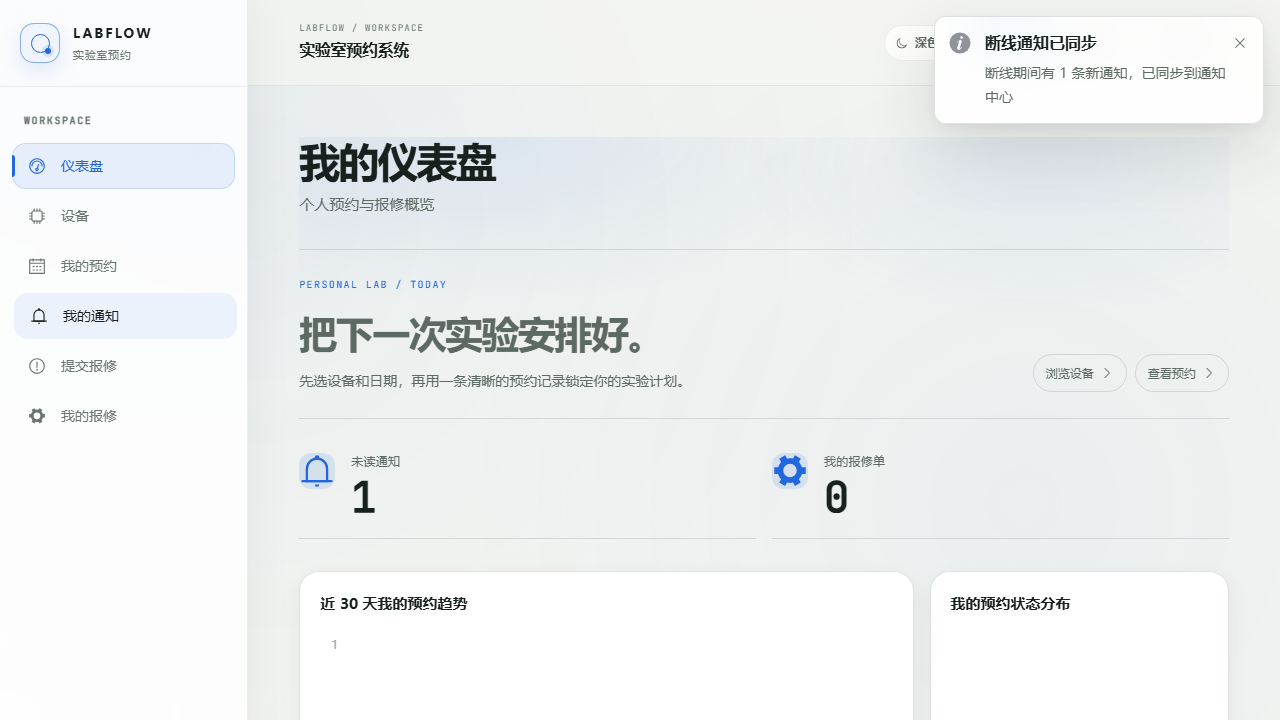
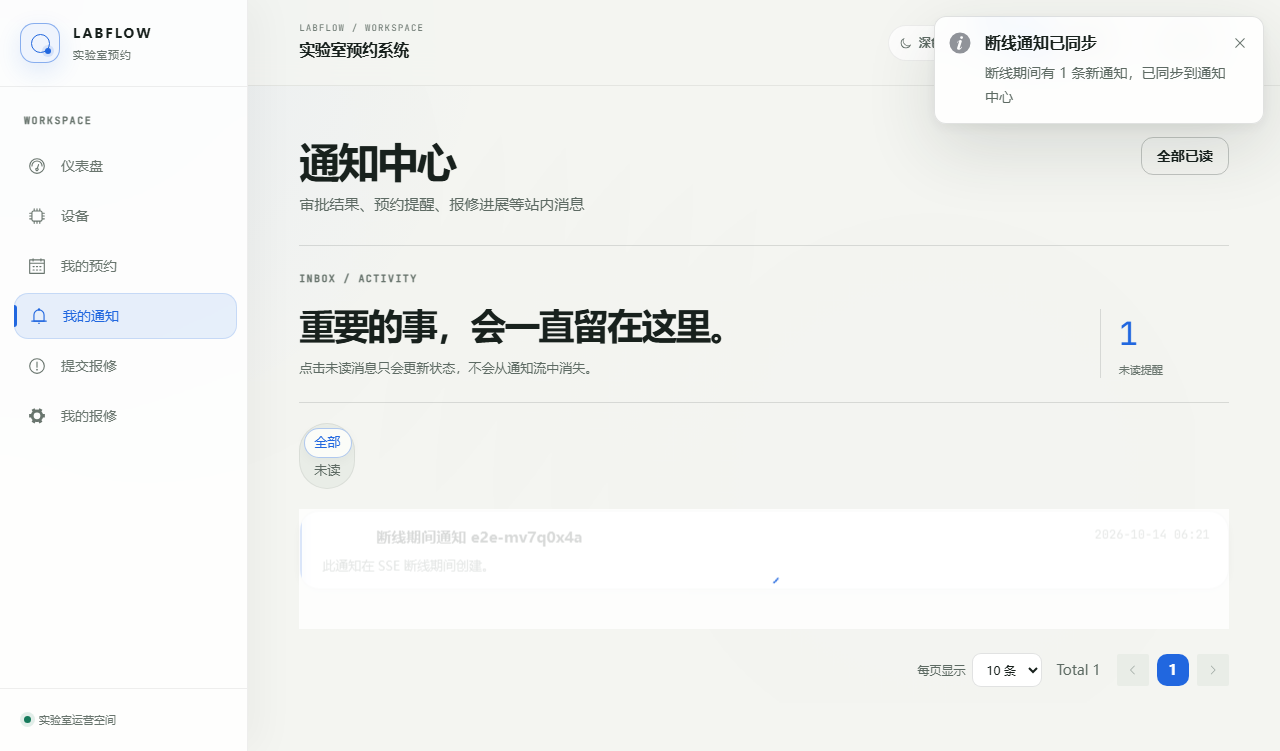
test: capture verified final frames for notification and multi-tab flows

diff --git a/.artifacts/browser-flow-20261014/viewer/gallery.html b/.artifacts/browser-flow-20261014/viewer/gallery.html
@@ -1,8 +1,8 @@
 <!doctype html><html lang="zh-CN"><meta charset="utf-8"><meta name="viewport" content="width=device-width,initial-scale=1"><title>前端流程截图册 · 2026-10-14</title>
 <style>body{margin:0;background:#f7f7f5;color:#222;font:16px/1.65 system-ui,sans-serif}header,main{max-width:1280px;margin:auto;padding:32px}h1{font-size:38px;margin:0 0 12px}p{color:#555}input,select,button{font:inherit;border:1px solid #ccc;border-radius:8px;padding:10px;background:white;color:#222}nav{display:flex;gap:12px;flex-wrap:wrap}input{flex:1;min-width:240px}.grid{display:grid;grid-template-columns:repeat(auto-fill,minmax(260px,1fr));gap:20px}article{background:white;border-radius:12px;padding:14px}article button{padding:0;border:0;width:100%;cursor:zoom-in}article img{display:block;width:100%;height:190px;object-fit:contain;background:#eee}article h2{font-size:15px;margin:10px 0}small{color:#555}.badge{color:#17663d}dialog{border:0;border-radius:12px;padding:18px;width:92vw;max-width:1500px;height:90vh}dialog::backdrop{background:#000b}.controls{display:flex;gap:10px;align-items:center;flex-wrap:wrap}.detail{height:calc(100% - 75px);overflow:auto;text-align:center}.detail img{max-width:100%;height:auto}#caption{flex:1}a{color:#1462c2}</style>
-<header><h1>前端流程截图册</h1><div class="badge">2026-10-14 · 14 条流程通过 · 24 张新截图</div><p>真实 Vue 页面、Java Spring Boot、MySQL 与 Redis；使用隔离测试学院和数据库，上传图片为测试占位附件。覆盖预约审批、交接与归还验收、报修、角色权限、学院隔离、并发预约和通知。旧处罚申诉、逾期和维护校准流程已移除。</p><nav><input id="search" placeholder="搜索流程或操作步骤" aria-label="搜索截图"><select id="group" aria-label="选择流程"><option value="">全部流程</option></select></nav><p id="count"></p></header><main><div class="grid" id="grid"></div></main>
+<header><h1>前端流程截图册</h1><div class="badge">2026-10-14 · 14 条流程通过 · 24 张关键截图</div><p>真实 Vue 页面、Java Spring Boot、MySQL 与 Redis；使用隔离测试学院和数据库，上传图片为测试占位附件。覆盖预约审批、交接与归还验收、报修、角色权限、学院隔离、并发预约和通知。旧处罚申诉、逾期和维护校准流程已移除。</p><nav><input id="search" placeholder="搜索流程或操作步骤" aria-label="搜索截图"><select id="group" aria-label="选择流程"><option value="">全部流程</option></select></nav><p id="count"></p></header><main><div class="grid" id="grid"></div></main>
 <dialog id="viewer"><div class="controls"><button id="prev">上一张 ←</button><button id="next">下一张 →</button><span id="caption"></span><a id="original" target="_blank">原图</a><button id="close">关闭 Esc</button></div><div class="detail"><img id="large" alt="流程截图"></div></dialog>
-<script type="application/json" id="data">{"date":"2026-10-14","groups":[{"title":"管理员菜单页面正常显示，设备、用户和实验室 CRUD 可闭环","count":2},{"title":"不可预约日期会阻止用户提交，解除后恢复预约；同步与异步报表可下载","count":2},{"title":"两个标签页并发提交时使用共享令牌并成功通过 CSRF 校验","count":1},{"title":"交接发现配件损坏会阻止启用、生成报修并等待负责人处置","count":1},{"title":"报修被退回后可重新处理，管理员驳回分支也可闭环","count":2},{"title":"损坏归还验收会完成预约并将设备转入维护状态","count":2},{"title":"管理员可驳回待受理报修，用户端可查看驳回状态","count":2},{"title":"预约审批、报修处理和菜单隔离均通过页面完成","count":2},{"title":"驳回、取消与候补递补都能通过实际页面闭环","count":2},{"title":"两个用户并发预约同一设备，管理员审批唯一成功申请","count":2},{"title":"HTTP 连接中断后同一 EventSource 按 Last-Event-ID 补发通知","count":1},{"title":"一个标签页标记已读后同步更新同账号的另一个标签页","count":1},{"title":"非 AI 菜单页面、预约与报修协作链路及预期错误状态均截图验证","count":2},{"title":"跨学院设备、预约和审批不可见；本学院负责人及系统管理员范围正确","count":2}],"frames":[{"index":1,"group":"管理员菜单页面正常显示，设备、用户和实验室 CRUD 可闭环","action":"结果核对 · admin-dashboard","url":"","file":"images/0001.png"},{"index":2,"group":"管理员菜单页面正常显示，设备、用户和实验室 CRUD 可闭环","action":"结果核对 · organization-lab-management","url":"","file":"images/0002.png"},{"index":3,"group":"不可预约日期会阻止用户提交，解除后恢复预约；同步与异步报表可下载","action":"结果核对 · operations-reports","url":"","file":"images/0003.png"},{"index":4,"group":"不可预约日期会阻止用户提交，解除后恢复预约；同步与异步报表可下载","action":"结果核对 · reservation-rules-released-user","url":"","file":"images/0004.png"},{"index":5,"group":"两个标签页并发提交时使用共享令牌并成功通过 CSRF 校验","action":"打开页面","url":"/dashboard","file":"images/0005.png"},{"index":6,"group":"交接发现配件损坏会阻止启用、生成报修并等待负责人处置","action":"结果核对 · handover-damage-repair-workorder","url":"","file":"images/0006.png"},{"index":7,"group":"报修被退回后可重新处理，管理员驳回分支也可闭环","action":"点击 · 提交报修","url":"/repairs/mine","file":"images/0007.png"},{"index":8,"group":"报修被退回后可重新处理，管理员驳回分支也可闭环","action":"点击 · 确认处理","url":"/repairs","file":"images/0008.png"},{"index":9,"group":"损坏归还验收会完成预约并将设备转入维护状态","action":"结果核对 · damaged-device-maintenance-admin","url":"","file":"images/0009.png"},{"index":10,"group":"损坏归还验收会完成预约并将设备转入维护状态","action":"结果核对 · damaged-return-completed-user","url":"","file":"images/0010.png"},{"index":11,"group":"管理员可驳回待受理报修，用户端可查看驳回状态","action":"结果核对 · repair-rejected-admin","url":"","file":"images/0011.png"},{"index":12,"group":"管理员可驳回待受理报修，用户端可查看驳回状态","action":"结果核对 · repair-rejected-user","url":"","file":"images/0012.png"},{"index":13,"group":"预约审批、报修处理和菜单隔离均通过页面完成","action":"结果核对 · handover-queue-completed-admin","url":"","file":"images/0013.png"},{"index":14,"group":"预约审批、报修处理和菜单隔离均通过页面完成","action":"结果核对 · reservation-completed-user","url":"","file":"images/0014.png"},{"index":15,"group":"驳回、取消与候补递补都能通过实际页面闭环","action":"结果核对 · reservation-rejected-and-cancelled-user","url":"","file":"images/0015.png"},{"index":16,"group":"驳回、取消与候补递补都能通过实际页面闭环","action":"结果核对 · waitlist-notified-user","url":"","file":"images/0016.png"},{"index":17,"group":"两个用户并发预约同一设备，管理员审批唯一成功申请","action":"结果核对 · 01-user-one-ready-to-submit","url":"","file":"images/0017.png"},{"index":18,"group":"两个用户并发预约同一设备，管理员审批唯一成功申请","action":"结果核对 · 07-admin-approval-complete","url":"","file":"images/0018.png"},{"index":19,"group":"HTTP 连接中断后同一 EventSource 按 Last-Event-ID 补发通知","action":"点击 · 我的通知","url":"/notifications","file":"images/0019.png"},{"index":20,"group":"一个标签页标记已读后同步更新同账号的另一个标签页","action":"点击控件","url":"/notifications","file":"images/0020.png"},{"index":21,"group":"非 AI 菜单页面、预约与报修协作链路及预期错误状态均截图验证","action":"结果核对 · admin-approvals-pending","url":"","file":"images/0021.png"},{"index":22,"group":"非 AI 菜单页面、预约与报修协作链路及预期错误状态均截图验证","action":"结果核对 · user-reservations","url":"","file":"images/0022.png"},{"index":23,"group":"跨学院设备、预约和审批不可见；本学院负责人及系统管理员范围正确","action":"结果核对 · cross-college-user-empty-device-list","url":"","file":"images/0023.png"},{"index":24,"group":"跨学院设备、预约和审批不可见；本学院负责人及系统管理员范围正确","action":"结果核对 · system-admin-cross-college-device-management","url":"","file":"images/0024.png"}]}</script><script>
+<script type="application/json" id="data">{"date":"2026-10-14","groups":[{"title":"管理员菜单页面正常显示，设备、用户和实验室 CRUD 可闭环","count":2},{"title":"不可预约日期会阻止用户提交，解除后恢复预约；同步与异步报表可下载","count":2},{"title":"两个标签页并发提交时使用共享令牌并成功通过 CSRF 校验","count":1},{"title":"交接发现配件损坏会阻止启用、生成报修并等待负责人处置","count":1},{"title":"报修被退回后可重新处理，管理员驳回分支也可闭环","count":2},{"title":"损坏归还验收会完成预约并将设备转入维护状态","count":2},{"title":"管理员可驳回待受理报修，用户端可查看驳回状态","count":2},{"title":"预约审批、报修处理和菜单隔离均通过页面完成","count":2},{"title":"驳回、取消与候补递补都能通过实际页面闭环","count":2},{"title":"两个用户并发预约同一设备，管理员审批唯一成功申请","count":2},{"title":"HTTP 连接中断后同一 EventSource 按 Last-Event-ID 补发通知","count":1},{"title":"一个标签页标记已读后同步更新同账号的另一个标签页","count":1},{"title":"非 AI 菜单页面、预约与报修协作链路及预期错误状态均截图验证","count":2},{"title":"跨学院设备、预约和审批不可见；本学院负责人及系统管理员范围正确","count":2}],"frames":[{"index":1,"group":"管理员菜单页面正常显示，设备、用户和实验室 CRUD 可闭环","action":"结果核对 · admin-dashboard","url":"","file":"images/0001.png"},{"index":2,"group":"管理员菜单页面正常显示，设备、用户和实验室 CRUD 可闭环","action":"结果核对 · organization-lab-management","url":"","file":"images/0002.png"},{"index":3,"group":"不可预约日期会阻止用户提交，解除后恢复预约；同步与异步报表可下载","action":"结果核对 · operations-reports","url":"","file":"images/0003.png"},{"index":4,"group":"不可预约日期会阻止用户提交，解除后恢复预约；同步与异步报表可下载","action":"结果核对 · reservation-rules-released-user","url":"","file":"images/0004.png"},{"index":5,"group":"两个标签页并发提交时使用共享令牌并成功通过 CSRF 校验","action":"结果核对 · csrf-shared-session-dashboard","url":"","file":"images/0005.png"},{"index":6,"group":"交接发现配件损坏会阻止启用、生成报修并等待负责人处置","action":"结果核对 · handover-damage-repair-workorder","url":"","file":"images/0006.png"},{"index":7,"group":"报修被退回后可重新处理，管理员驳回分支也可闭环","action":"点击 · 提交报修","url":"/repairs/mine","file":"images/0007.png"},{"index":8,"group":"报修被退回后可重新处理，管理员驳回分支也可闭环","action":"点击 · 确认处理","url":"/repairs","file":"images/0008.png"},{"index":9,"group":"损坏归还验收会完成预约并将设备转入维护状态","action":"结果核对 · damaged-device-maintenance-admin","url":"","file":"images/0009.png"},{"index":10,"group":"损坏归还验收会完成预约并将设备转入维护状态","action":"结果核对 · damaged-return-completed-user","url":"","file":"images/0010.png"},{"index":11,"group":"管理员可驳回待受理报修，用户端可查看驳回状态","action":"结果核对 · repair-rejected-admin","url":"","file":"images/0011.png"},{"index":12,"group":"管理员可驳回待受理报修，用户端可查看驳回状态","action":"结果核对 · repair-rejected-user","url":"","file":"images/0012.png"},{"index":13,"group":"预约审批、报修处理和菜单隔离均通过页面完成","action":"结果核对 · handover-queue-completed-admin","url":"","file":"images/0013.png"},{"index":14,"group":"预约审批、报修处理和菜单隔离均通过页面完成","action":"结果核对 · reservation-completed-user","url":"","file":"images/0014.png"},{"index":15,"group":"驳回、取消与候补递补都能通过实际页面闭环","action":"结果核对 · reservation-rejected-and-cancelled-user","url":"","file":"images/0015.png"},{"index":16,"group":"驳回、取消与候补递补都能通过实际页面闭环","action":"结果核对 · waitlist-notified-user","url":"","file":"images/0016.png"},{"index":17,"group":"两个用户并发预约同一设备，管理员审批唯一成功申请","action":"结果核对 · 01-user-one-ready-to-submit","url":"","file":"images/0017.png"},{"index":18,"group":"两个用户并发预约同一设备，管理员审批唯一成功申请","action":"结果核对 · 07-admin-approval-complete","url":"","file":"images/0018.png"},{"index":19,"group":"HTTP 连接中断后同一 EventSource 按 Last-Event-ID 补发通知","action":"结果核对 · notification-reconnected-history","url":"","file":"images/0019.png"},{"index":20,"group":"一个标签页标记已读后同步更新同账号的另一个标签页","action":"结果核对 · notification-read-synchronized","url":"","file":"images/0020.png"},{"index":21,"group":"非 AI 菜单页面、预约与报修协作链路及预期错误状态均截图验证","action":"结果核对 · admin-approvals-pending","url":"","file":"images/0021.png"},{"index":22,"group":"非 AI 菜单页面、预约与报修协作链路及预期错误状态均截图验证","action":"结果核对 · user-reservations","url":"","file":"images/0022.png"},{"index":23,"group":"跨学院设备、预约和审批不可见；本学院负责人及系统管理员范围正确","action":"结果核对 · cross-college-user-empty-device-list","url":"","file":"images/0023.png"},{"index":24,"group":"跨学院设备、预约和审批不可见；本学院负责人及系统管理员范围正确","action":"结果核对 · system-admin-cross-college-device-management","url":"","file":"images/0024.png"}]}</script><script>
 const data=JSON.parse(document.getElementById('data').textContent), grid=document.getElementById('grid'), modal=document.getElementById('viewer'), search=document.getElementById('search'), group=document.getElementById('group');let visible=data.frames,position=0;
 for(const flow of data.groups){const option=document.createElement('option');option.value=flow.title;option.textContent=flow.title+' ('+flow.count+')';group.append(option)}
 function show(index){position=index;const frame=visible[position];document.getElementById('large').src=frame.file;document.getElementById('large').alt=frame.action;document.getElementById('caption').textContent=frame.index+' / '+data.frames.length+' · '+frame.group+' · '+frame.action;document.getElementById('original').href=frame.file;document.querySelector('.detail').scrollTop=0;if(!modal.open)modal.showModal()}

diff --git a/frontend/e2e/notification-reconnect.spec.ts b/frontend/e2e/notification-reconnect.spec.ts
@@ -112,7 +112,7 @@ test.describe('通知 SSE 断线重连', () => {
     fixtureCommand('cleanup')
   })
 
-  test('HTTP 连接中断后同一 EventSource 按 Last-Event-ID 补发通知', async ({ browser }) => {
+  test('HTTP 连接中断后同一 EventSource 按 Last-Event-ID 补发通知', async ({ browser }, testInfo) => {
     test.setTimeout(45_000)
     const context = await browser.newContext()
     const backendPort = Number(process.env.E2E_BACKEND_PORT || 8000)
@@ -143,13 +143,14 @@ test.describe('通知 SSE 断线重连', () => {
       await page.getByRole('menuitem', { name: '我的通知', exact: true }).click()
       await expect(page.getByRole('heading', { name: '通知中心', exact: true })).toBeVisible()
       await expect(page.locator('.notif-row__title').filter({ hasText: title })).toBeVisible()
+      await page.screenshot({ path: testInfo.outputPath('notification-reconnected-history.png'), fullPage: true })
     } finally {
       await context.close()
       await proxy.close()
     }
   })
 
-  test('一个标签页标记已读后同步更新同账号的另一个标签页', async ({ browser }) => {
+  test('一个标签页标记已读后同步更新同账号的另一个标签页', async ({ browser }, testInfo) => {
     test.setTimeout(45_000)
     const context = await browser.newContext()
     try {
@@ -174,6 +175,7 @@ test.describe('通知 SSE 断线重连', () => {
       await firstPage.locator('.notif-row').filter({ hasText: title }).click()
       await expect(secondRow).toHaveAttribute('data-read', 'read', { timeout: 10_000 })
       await expect(secondPage.locator('.layout__header-right .el-badge__content')).toBeHidden()
+      await secondPage.screenshot({ path: testInfo.outputPath('notification-read-synchronized.png'), fullPage: true })
     } finally {
       await context.close()
     }

diff --git a/frontend/e2e/csrf-multitab.spec.ts b/frontend/e2e/csrf-multitab.spec.ts
@@ -23,7 +23,7 @@ test.describe('同一登录会话的多标签页 CSRF 保护', () => {
     fixtureCommand('cleanup')
   })
 
-  test('两个标签页并发提交时使用共享令牌并成功通过 CSRF 校验', async ({ browser }) => {
+  test('两个标签页并发提交时使用共享令牌并成功通过 CSRF 校验', async ({ browser }, testInfo) => {
     const context = await browser.newContext()
     const firstTab = await context.newPage()
     await firstTab.goto('/login')
@@ -63,6 +63,7 @@ test.describe('同一登录会话的多标签页 CSRF 保护', () => {
     expect(outcomes.map((outcome) => outcome.status)).toEqual([404, 404])
     expect(outcomes.map((outcome) => outcome.code)).not.toContain('CSRF_TOKEN_INVALID')
     expect(outcomes.map((outcome) => outcome.code)).not.toContain('CSRF_SESSION_MISMATCH')
+    await secondTab.screenshot({ path: testInfo.outputPath('csrf-shared-session-dashboard.png'), fullPage: true })
     await context.close()
   })
 })

diff --git a/.artifacts/browser-flow-20261014/viewer/gallery.md b/.artifacts/browser-flow-20261014/viewer/gallery.md
@@ -16,7 +16,7 @@
 
 ## 3. 两个标签页并发提交时使用共享令牌并成功通过 CSRF 校验
 
-![两个标签页并发提交时使用共享令牌并成功通过 CSRF 校验 · 打开页面](images/0005.png)
+![两个标签页并发提交时使用共享令牌并成功通过 CSRF 校验 · 结果核对 · csrf-shared-session-dashboard](images/0005.png)
 
 ## 4. 交接发现配件损坏会阻止启用、生成报修并等待负责人处置
 
@@ -60,11 +60,11 @@
 
 ## 11. HTTP 连接中断后同一 EventSource 按 Last-Event-ID 补发通知
 
-![HTTP 连接中断后同一 EventSource 按 Last-Event-ID 补发通知 · 点击 · 我的通知](images/0019.png)
+![HTTP 连接中断后同一 EventSource 按 Last-Event-ID 补发通知 · 结果核对 · notification-reconnected-history](images/0019.png)
 
 ## 12. 一个标签页标记已读后同步更新同账号的另一个标签页
 
-![一个标签页标记已读后同步更新同账号的另一个标签页 · 点击控件](images/0020.png)
+![一个标签页标记已读后同步更新同账号的另一个标签页 · 结果核对 · notification-read-synchronized](images/0020.png)
 
 ## 13. 非 AI 菜单页面、预约与报修协作链路及预期错误状态均截图验证
 
